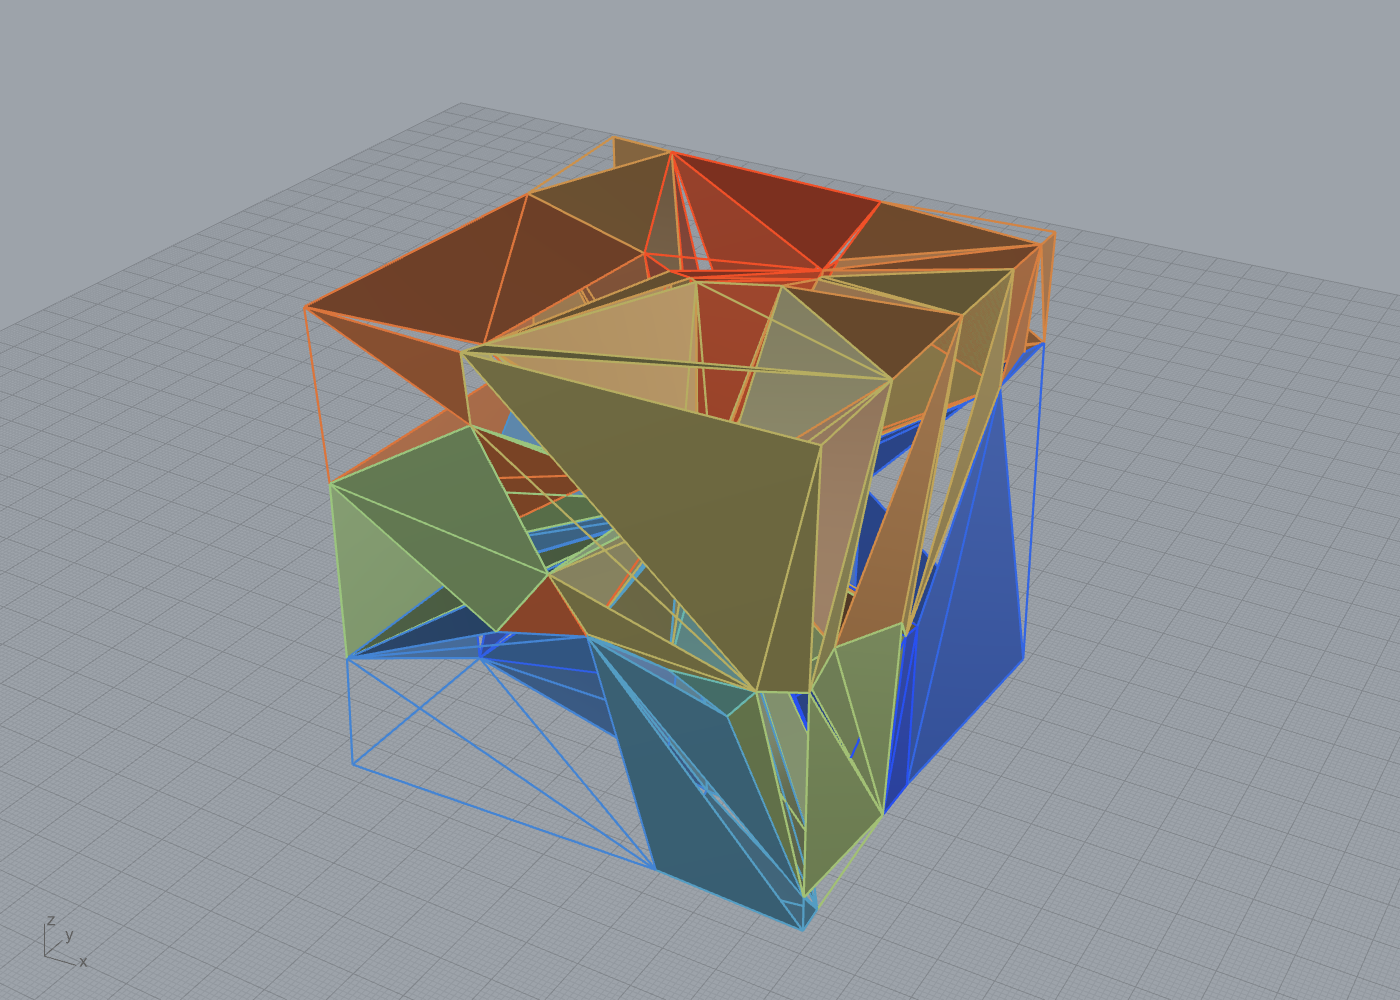
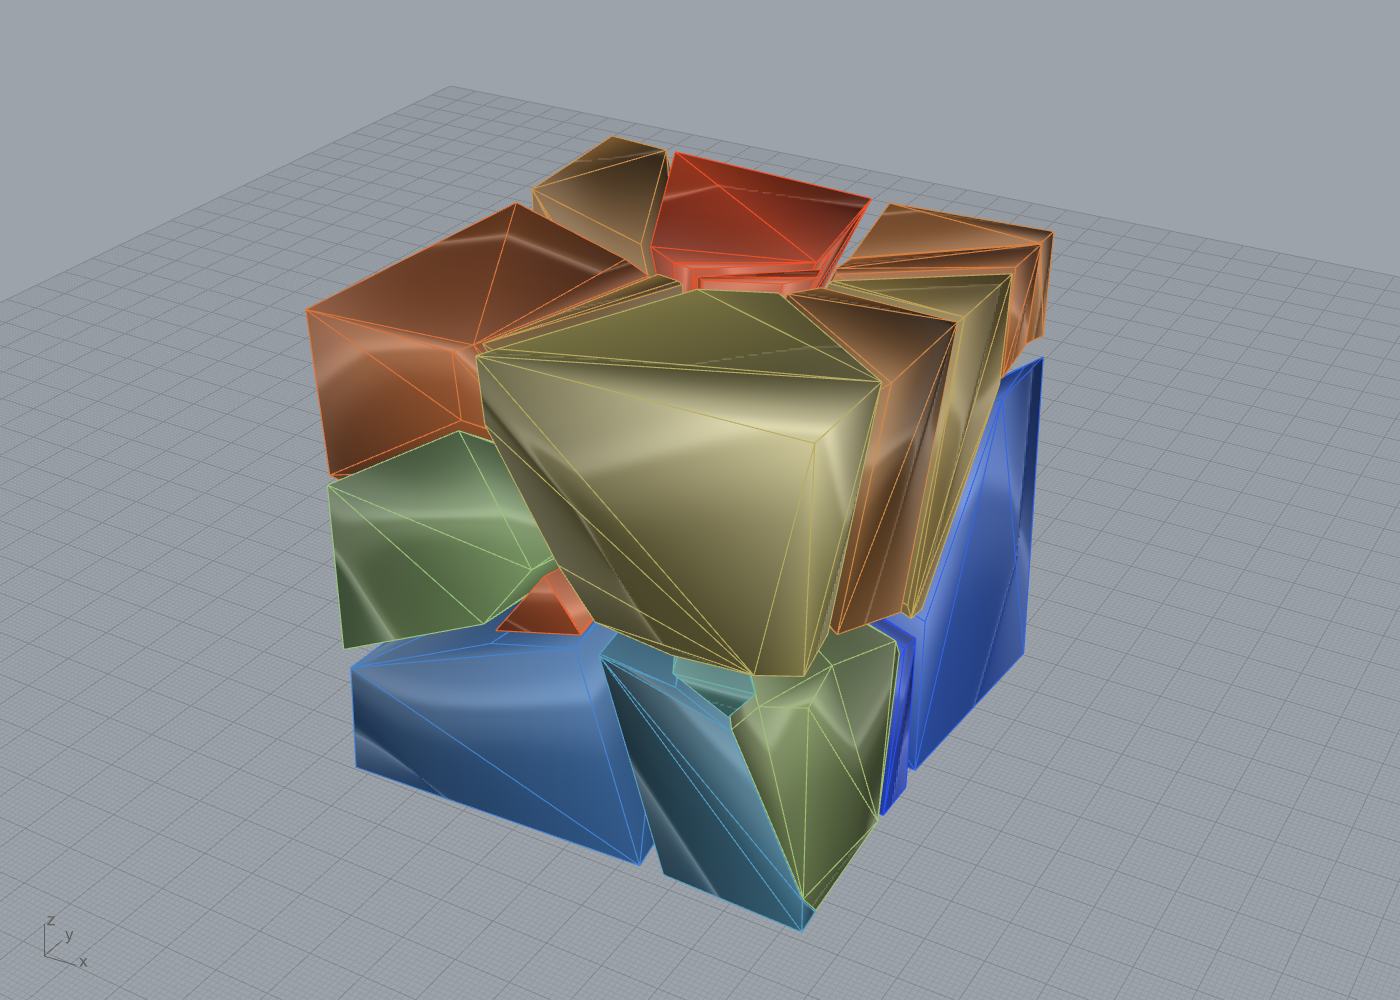
fix(masonry): Polygonal Masonry Sequence 3D emits clean closed cells natively
The 3D component passed Voronoi / scan-derived cells through untouched. Such cells
arrive with duplicate vertices, degenerate slivers, and inconsistent (often inward)
face normals, so they render as see-through "open" shells even though topologically
closed (all 50 example cells were IsClosed=true). A component should not emit meshes
that need a downstream cleanup pass.

CleanCell now sanitises every emitted cell: CombineIdentical + CullDegenerateFaces +
FillHoles (if open) + UnifyNormals + outward orientation. Verified live: the component
outputs 50/50 closed cells with unified normals, no manual cleanup. Re-rendered
27_07_voronoi_3d.png (cells now read as distinct solid blocks; presentation shrink
0.88 only, no manual unify). Also adds the examples audit punch-list.

Changed region(s): [[0.215, 0.124, 0.7679, 0.93], [0.2457, 0.248, 0.3071, 0.279]]

diff --git a/src/Frahan.StonePack.GH/Masonry/Sequencing/PolygonalMasonrySequence3DComponent.cs b/src/Frahan.StonePack.GH/Masonry/Sequencing/PolygonalMasonrySequence3DComponent.cs
@@ -197,7 +197,13 @@ namespace Frahan.GH.Masonry.Sequencing
             {
                 int cellId = kvp.Value;
                 if (!meshById.TryGetValue(cellId, out var m)) continue;
-                stoneMeshes.Add(m);
+                // Emit a CLEAN closed solid, not the raw input mesh. Voronoi /
+                // scan-derived cells often arrive with duplicate vertices,
+                // degenerate slivers, and inconsistent (inward) face normals, so
+                // they render as see-through "open" shells even when topologically
+                // closed. Sanitise here so the component's output is clean by
+                // itself and never needs a downstream cleanup pass.
+                stoneMeshes.Add(CleanCell(m));
                 orderList.Add(kvp.Key);
                 depthList.Add(plan.Depth[cellId]);
                 cellCount++;
@@ -224,6 +230,25 @@ namespace Frahan.GH.Masonry.Sequencing
         // ------------------------------------------------------------------
         // Helpers
         // ------------------------------------------------------------------
+
+        // Sanitise a cell mesh into a clean closed solid with outward normals.
+        // Combine duplicate vertices, drop degenerate faces, cap any holes, and
+        // unify + outward-orient the normals so the cell renders solid (not a
+        // see-through shell). Operates on a duplicate; the input is not mutated.
+        private static Mesh CleanCell(Mesh src)
+        {
+            if (src == null) return null;
+            var m = src.DuplicateMesh();
+            m.Vertices.CombineIdentical(true, true);
+            m.Faces.CullDegenerateFaces();
+            if (!m.IsClosed) m.FillHoles();
+            m.RebuildNormals();
+            m.UnifyNormals();
+            if (m.IsClosed && m.Volume() < 0) m.Flip(true, true, true);
+            m.RebuildNormals();
+            m.Compact();
+            return m;
+        }
 
         private static Point3d MeshCentroid(Mesh m)
         {

diff --git a/handoffs/EXAMPLES_PUNCHLIST_2026-06-07.md b/handoffs/EXAMPLES_PUNCHLIST_2026-06-07.md
@@ -1,0 +1,67 @@
+# Examples audit punch-list (2026-06-07)
+
+From the read-only audit sweep of all 26 examples (54-agent workflow, adversarially verified) plus the
+migration TODO 27-30. Style: short sentences, no em dashes. Status as of local commit `f407127` (NOT yet
+pushed; awaiting HITL validation of the example-27 PNGs).
+
+## DONE in commit f407127 (local, awaiting push)
+- **Migration 27 polygonal masonry**: 7 of 8 cards live-validated in Rhino 8 (01-05 spanning-chain walls
+  3/7/10/8/20 stones, 07 3D Voronoi 50 cells, 08 negative cases). Result PNGs captured, README, cards/.
+- **Rule-8 robustness fix** (`Wall.cs`): mutual above/below ambiguity now resolved by centroid height
+  (acyclic) + graceful Kahn, instead of throwing. The bug that aborted card 06. Cards 01-05/07/08 unchanged.
+- **Audit cleanups**: 10_pack2d README stale `.gh` filename; 24 orphan duplicate PNGs + stale `24_cuts.json`
+  removed; 03_quarry_to_slabs noted SUPERSEDED by 23.
+- **KB-8** logged (2D Voronoi arrangement under-extraction).
+
+## REMAINING migrations (prep written in outputs/2026-06-07/migration_prep/)
+- [ ] **28 monument packing** -> examples/28_monument_packing. Components live (Frahan Monument Inventory
+  f7a16001 / Bench Monument Pack f7a16002 / Pack Monuments In Cell f7a16003). 3 cards, synthetic boxes
+  internalised. Live: solve 3 canvases, hand-wire the inventory -> pack chain for 28b/28c, capture 3 PNGs.
+- [ ] **29 edge matching v2** -> examples/29_edge_matching. EdgeMatch Solve d5f10001 live. 3 cards. CAVEAT:
+  set MinSegmentLength=0.3 on the no-match card (default 8.0 mm filters all mm-scale segments). Solve + capture.
+- [ ] **30 blockcutopt A4** -> examples/30_blockcutopt_validation. BlockCutOpt Solve f2d0bc02 live. A4 PASS
+  (N=163). BLOCKER: live `.gitattributes` does NOT LFS-track `*.3dm`; the 19.4 MB + 44.7 MB result .3dm
+  would commit as raw blobs. Decide LFS rule (HITL) before committing item 30.
+
+## REMAINING audit fixes (by severity)
+
+### HIGH (stub / not reproducible - need geometry regen, live Rhino)
+- [ ] **01_quarry_to_wall**: `.3dm` is a cm-scale placeholder (2 objects, 16/18 result layers empty); no
+  README/PNG/metrics. Regenerate the real quarry->fracture->ashlar-pack->wall result; add README+PNG+metrics.
+- [ ] **03_gpr_fracture_granite**: no `.3dm`; README admits "pending live regeneration"; 3 conflicting data
+  paths. Repath GPR input to colocated `gpr_data/`, run extraction, ship result `.3dm`+PNG+metrics.
+- [ ] **07_scan_ingest_full**: not self-reproducible (inputs point at D:/code_ws/Data + a pending Drive
+  upload); shipped mesh is raw cap-artifact. Colocate a tiny sample + ship the CLEANED `.3dm`+metrics, OR
+  demote the "Scan to mesh: WORKS" claim to "raw reconstruction; cleaning not captured".
+- [ ] **23_quarry_to_slab**: no `.3dm` AND no `.gh` (only README+metrics+3 PNGs). Generate geometry + an
+  authoring `.gh` so it is openable/reproducible (match 08's completeness contract).
+- [ ] **24_guillotine_cut_sequence**: no `.3dm`/`.gh` (orphans already removed). Generate the cut-sequence
+  geometry + `.gh` (sibling 25 ships a `.3dm`).
+- [ ] **02_masonry_assembly**: bare folder (only `.gh`+`.3dm`); no README/PNG/metrics + visual-check the blocks.
+
+### MEDIUM (drift / missing canvas - mostly live re-solve)
+- [ ] **12_trencadis**: `.3dm` has 100 shards on one "Default" layer but README says 28 + named layers.
+  Re-solve the `.gh` live, recapture, rewrite README to the real count + grout (5 mm vs 0.40 vs 0.02 drift).
+- [ ] **18_pack_settle_bullet**: README height 1.95 m vs metrics 3.06 m; PNG shows a precarious tower with no
+  visible container. Open live; re-run the settle or honestly document the artifact + fix the number.
+- [ ] **21 / 22 (rubble arch / vault)**: no `.gh` canvas. Add an authoring `.gh` (the new Arch Voussoirs /
+  Pendentive Vault Voussoirs components feed the cells).
+- [ ] **26_loviisa**: `.gh` persists a stale ABSOLUTE path (`KB11_2022.shp`) not the colocated
+  `shp_data/KB11_tulkinta.shp`; remove the stray far-away `card_bench` mesh. Re-point + resave the `.gh`.
+- [ ] **06 (2D Voronoi, KB-8)**: fix `Pslg.FromSegments` face extraction for ridge networks (intersection
+  split + endpoint snap + half-edge traversal) OR add a 2D-cells input mirroring the 3D component; then
+  ship card 06 in example 27. Until then 3D Voronoi (07) is the Voronoi demo.
+
+### LOW
+- [ ] **13_surface_mapping**: the `.gh` is segmentation-only; the headline "176-shard trencadis mosaic" is
+  baked-only (deferred to example 12). Note this in the README; add metrics.json.
+- [ ] **10_pack2d**: filename fixed; the README body still describes V506 while the banner says FreeNestX.
+  Inspect the `.gh` and reconcile the packer identity.
+
+## CLEAN (no action) - 13 examples
+04, 05, 08, 09, 11, 14, 15, 16, 17, 19, 20, 22, 25.
+
+## Notes
+- Every "regen" item needs the live Rhino slot (truth criterion c); the headless harness cannot init
+  `rhcommon_c` here. Deploy is file-copy with Rhino CLOSED.
+- Commits to Frahan main need explicit push authorization (per task). Batch per logical unit; keep main clean.